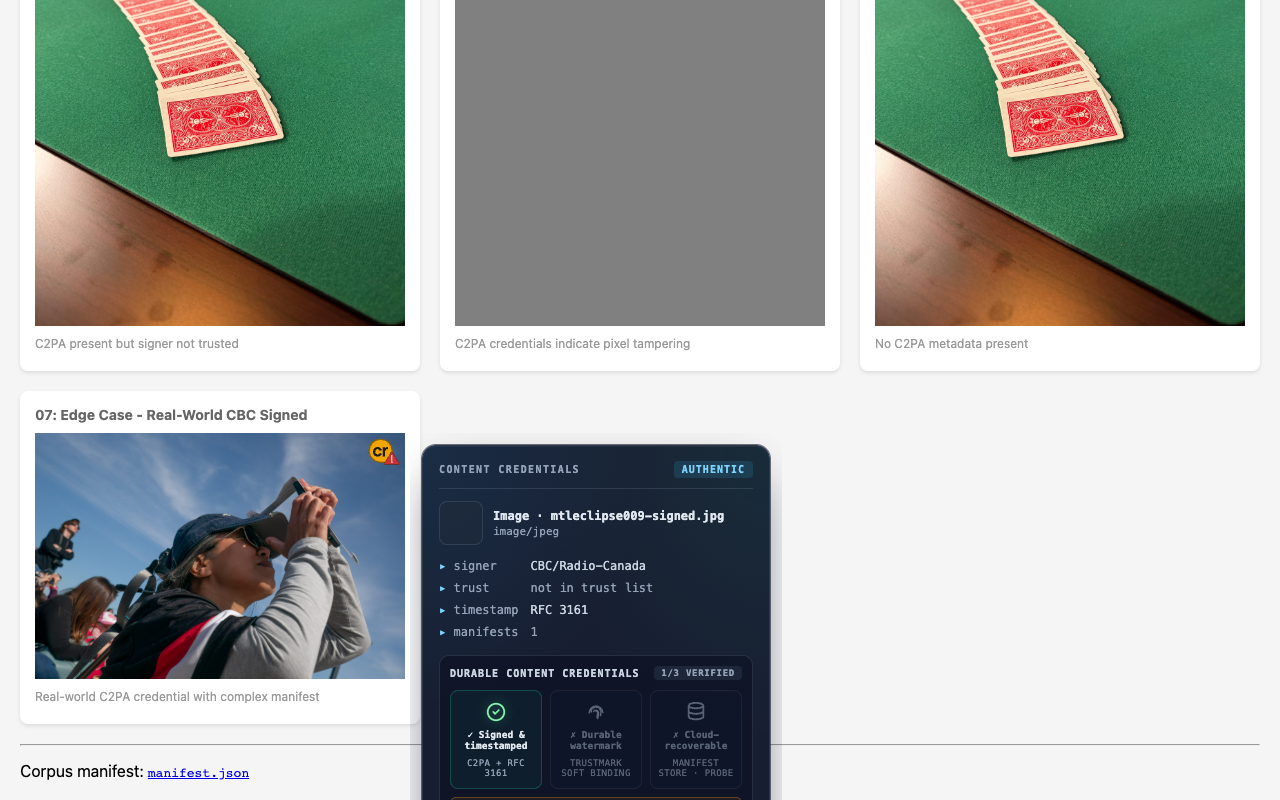
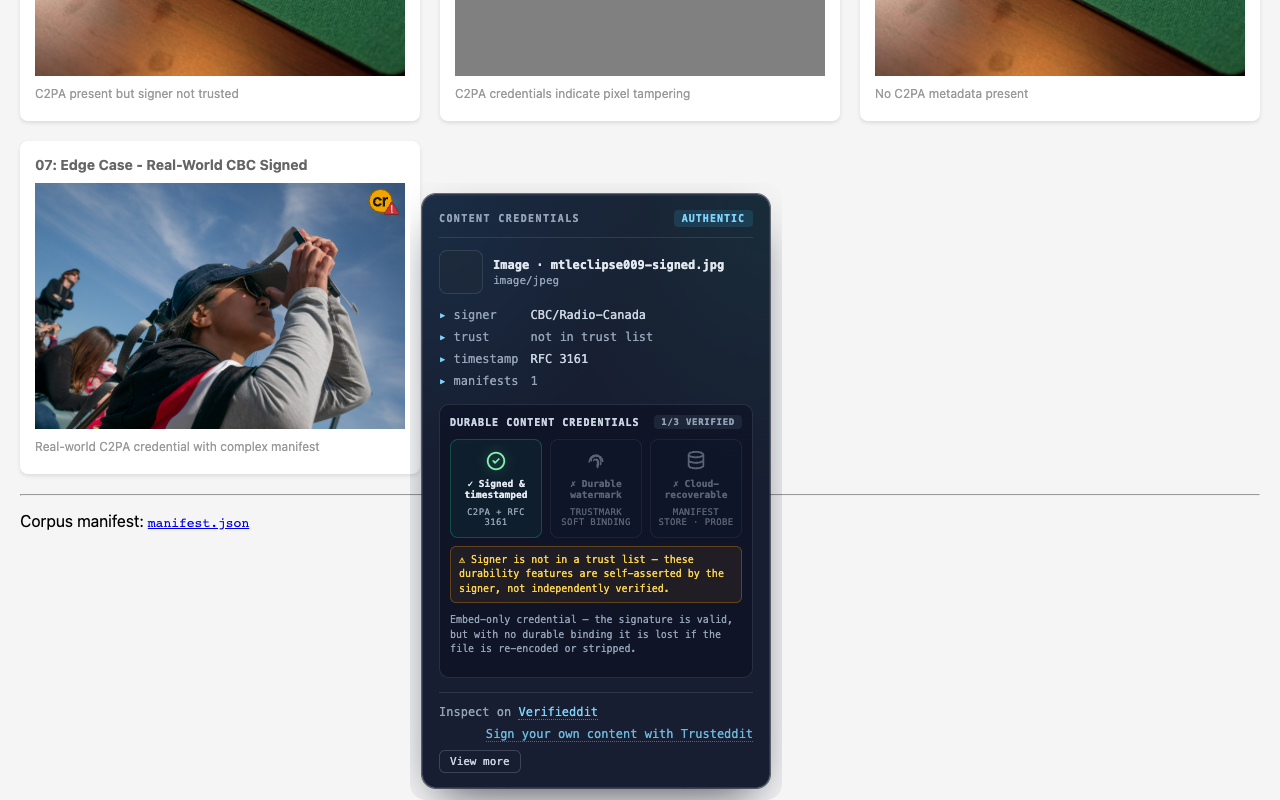
feat(overlay): open the panel on the provenance graph, not behind two clicks (#141)
The interactive graph is the capability that distinguishes this from a padlock
icon, and it was invisible in normal use: rendered inside .additional-info,
behind the "View more" toggle, then inside a collapsed "Provenance chain"
section. Two clicks and a scroll before a user saw the thing worth seeing.

It now renders in the panel body, under its own label, as soon as the panel
opens. The collapsible keeps the ingredient-grid fallback for stores that yield
no graph, so the two remain alternatives and never both appear.

Also drops the "View more" step from the listing capture, which only existed to
reach the graph.

diff --git a/src/webComponents.ts b/src/webComponents.ts
@@ -262,6 +262,24 @@ export class C2paOverlay extends LitElement {
       }
       .more:hover { background: var(--glass-bg-soft); }
 
+      /* The graph is the headline capability, so it gets room in the panel
+         proper rather than the cramped treatment a collapsible section gets. */
+      .provenance-feature {
+          display: block;
+          margin-top: 10px;
+      }
+      .provenance-feature-label {
+          font-size: 11px;
+          letter-spacing: 0.08em;
+          text-transform: uppercase;
+          color: var(--text-dim, #94a3b8);
+          margin-bottom: 6px;
+      }
+      .provenance-feature c2pa-provenance-graph {
+          display: block;
+          width: 100%;
+      }
+
       .additional-info {
           overflow: hidden;
           max-height: 0;
@@ -505,6 +523,25 @@ export class C2paOverlay extends LitElement {
 
       ${this.renderErrors(c2paResult.manifestStore.validationStatus)}
 
+      <!--
+        The provenance graph is the thing this extension does that a padlock
+        icon cannot. It used to sit two clicks down: inside .additional-info,
+        behind "View more", then inside a collapsed "Provenance chain" section.
+        Almost nobody dug that far, so the headline capability was invisible in
+        normal use. It now opens with the panel. The grid fallback stays under
+        "View more" for assets whose store yields no graph.
+      -->
+      ${(() => {
+        const graph = c2paResult.provenanceGraph
+        if (graph == null || graph.nodes.length === 0) return nothing
+        return html`
+          <div class="provenance-feature reveal" style="animation-delay:${pillarsDelay + 120}ms">
+            <div class="provenance-feature-label">Provenance chain</div>
+            <c2pa-provenance-graph .graph=${graph}></c2pa-provenance-graph>
+          </div>
+        `
+      })()}
+
       <div class="footer reveal" style="animation-delay:${pillarsDelay + 160}ms">
         <span>Inspect on <span class="link" @click="${this.handleClick}">Verifieddit</span></span>
         <!--
@@ -527,21 +564,24 @@ export class C2paOverlay extends LitElement {
           <span slot="header">Edits and Activity</span>
           <div slot="content"><c2pa-grid-display .items="${activityItems(this.c2paResult?.editsAndActivity ?? undefined)}"></c2pa-grid-display></div>
         </c2pa-collapsible>
-        <c2pa-collapsible>
-          <span slot="header">Provenance chain</span>
-          <div slot="content">
-            ${(() => {
-              // #131: show the diagram when a graph exists, else the grid — never both.
-              // The graph is built upstream in c2pa.ts from the RAW c2pa-rs store,
-              // so it carries the assertions, sensor telemetry, relationships and
-              // per-ingredient validation that the flattened result drops.
-              const graph = c2paResult.provenanceGraph
-              return graph != null && graph.nodes.length > 0
-                ? html`<c2pa-provenance-graph .graph=${graph}></c2pa-provenance-graph>`
-                : html`<c2pa-grid-display .items="${ingredientItems(activeManifest.ingredients)}"></c2pa-grid-display>`
-            })()}
-          </div>
-        </c2pa-collapsible>
+        ${(() => {
+          // #131: the graph and the grid are alternatives, never both. The graph
+          // is built upstream in c2pa.ts from the RAW c2pa-rs store, so it
+          // carries assertions, sensor telemetry, relationships and
+          // per-ingredient validation that the flattened result drops. When we
+          // have one it is rendered above, in the panel proper; this collapsible
+          // only carries the ingredient grid for stores that yield no graph.
+          const graph = c2paResult.provenanceGraph
+          if (graph != null && graph.nodes.length > 0) return nothing
+          return html`
+            <c2pa-collapsible>
+              <span slot="header">Provenance chain</span>
+              <div slot="content">
+                <c2pa-grid-display .items="${ingredientItems(activeManifest.ingredients)}"></c2pa-grid-display>
+              </div>
+            </c2pa-collapsible>
+          `
+        })()}
         <c2pa-collapsible>
           <span slot="header">Signature</span>
           <div slot="content"><c2pa-grid-display .items="${signatureItems(activeManifest.signatureInfo ?? null)}"></c2pa-grid-display></div>
